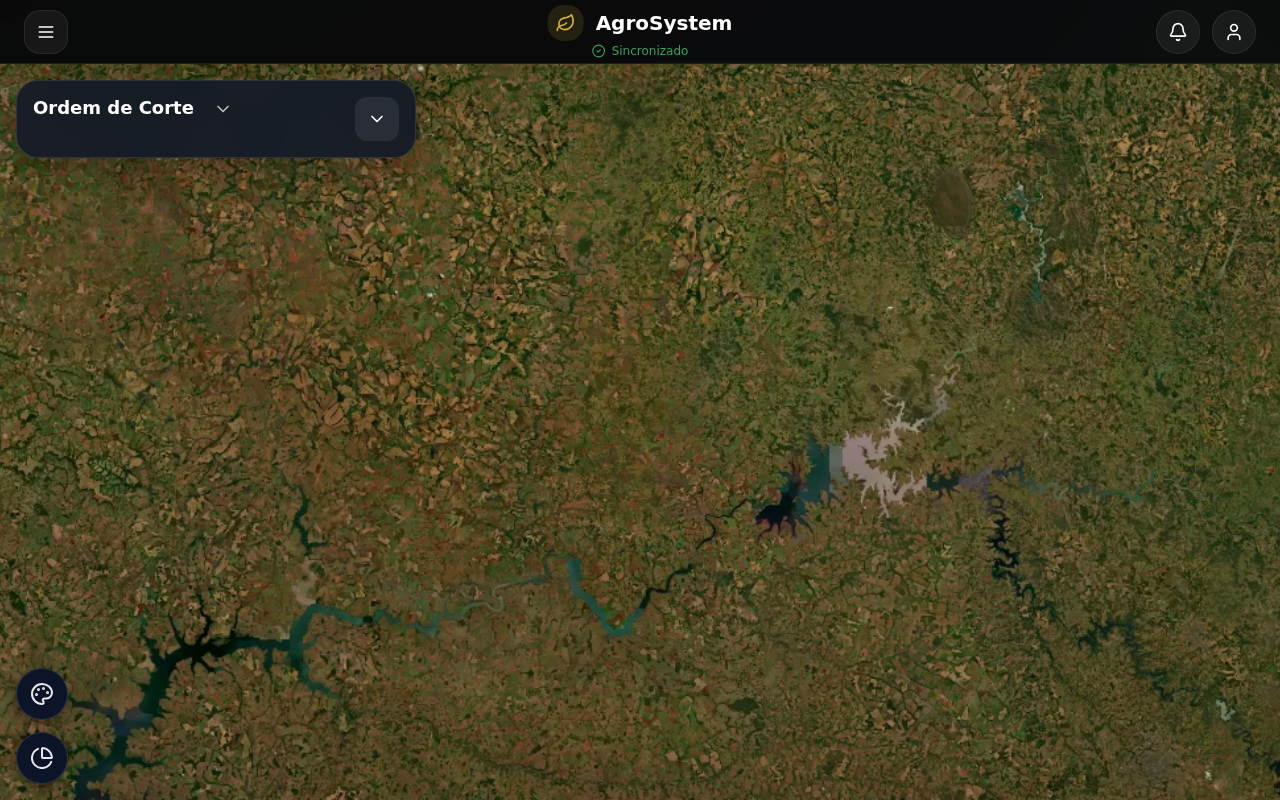
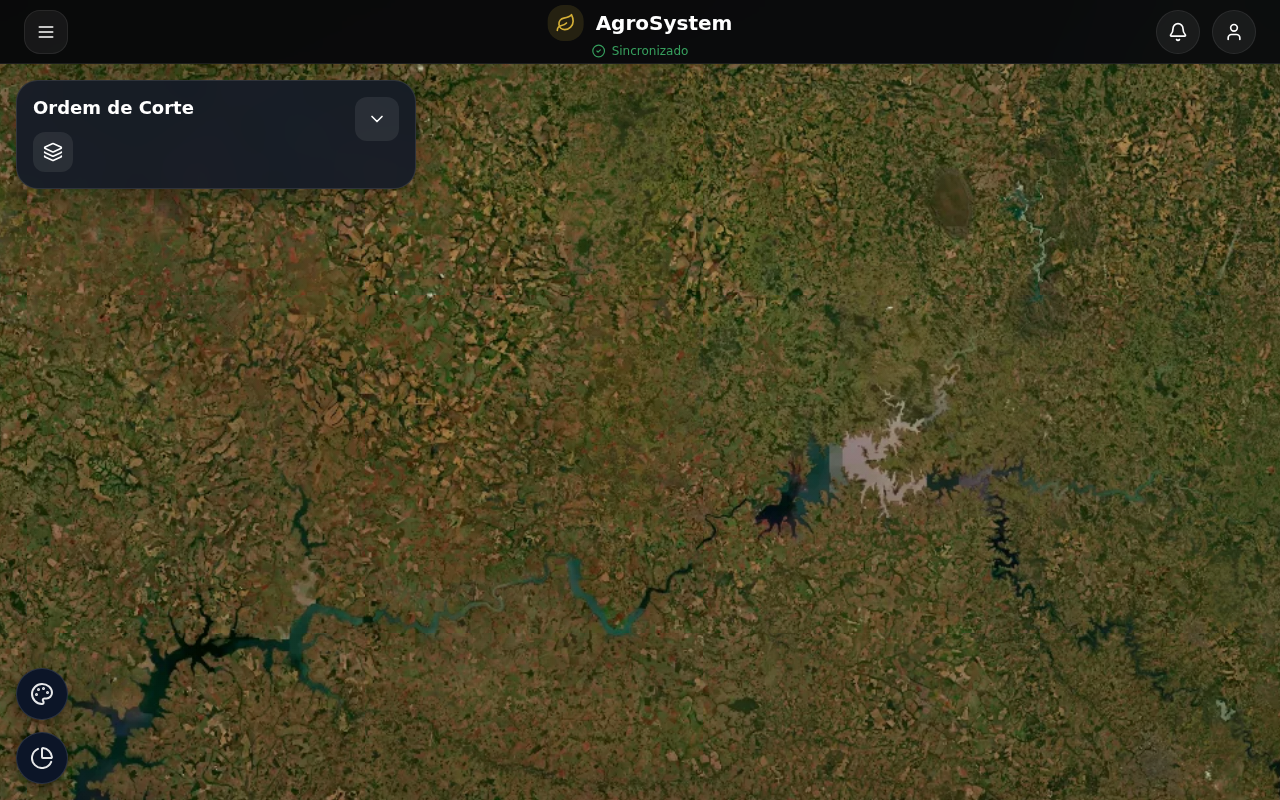
Add Tratos Culturais map module with layer switcher
This commit implements the "Tratos Culturais" module as part of a newly
introduced map layer switching mechanism.

- Adds a dropdown layer icon to switch between "Estimativa Safra", "Ordem de Corte" and "Tratos Culturais"
- Updates map visibility and paint properties to show correct colors based on active module
- Tratos Culturais shows exclusively closed orders in a neutral grey color
- Fixes issue where closed orders were erroneously visible/estimable in other modules
- Implements correct disabled-state for action buttons on closed orders
- Exposes `idsOcultosSet` to `EstimativaPanels` to enforce the blocking logic correctly

Changed region(s): [[0.0, 0.1875, 0.3438, 0.25]]

diff --git a/src/modules/estimativas/EstimativaPanels.jsx b/src/modules/estimativas/EstimativaPanels.jsx
@@ -24,6 +24,7 @@ import { OrdemCorteActions } from "./components/OrdemCorteActions";
  * @returns {JSX.Element} Conjunto de divs absolutas de UI.
  */
 export default function EstimativaPanels({
+  idsOcultosSet,
   activeMapModule,
   setActiveMapModule,
   currentRodada,
@@ -84,31 +85,25 @@ export default function EstimativaPanels({
       return feat && !feat.properties?._is_estimated;
   });
 
+  const [isModuleDropdownOpen, setIsModuleDropdownOpen] = useState(false);
+  const moduleLabels = {
+    estimativa: "Estimativa Safra",
+    ordemCorte: "Ordem de Corte",
+    tratosCulturais: "Tratos Culturais"
+  };
+
   return (
     <>
       {/* Título e Botão de Filtro - Top Left */}
-      <div className="absolute top-4 left-4 right-4 sm:right-auto w-auto sm:w-[400px] rounded-[22px] border overflow-hidden z-10 shadow-[0_10px_30px_rgba(0,0,0,0.24)]" style={{ background: "rgba(17,24,39,0.88)", borderColor: "rgba(255,255,255,0.10)", backdropFilter: "blur(16px)" }}>
-        <div className="p-4 flex items-start justify-between gap-3">
+      <div className="absolute top-4 left-4 right-4 sm:right-auto w-auto sm:w-[400px] rounded-[22px] border overflow-visible z-30 shadow-[0_10px_30px_rgba(0,0,0,0.24)]" style={{ background: "rgba(17,24,39,0.88)", borderColor: "rgba(255,255,255,0.10)", backdropFilter: "blur(16px)" }}>
+        <div className="p-4 flex items-start justify-between gap-3 relative">
           <div className="flex-1">
-            <div className="relative w-fit">
-              <select
-                  value={activeMapModule}
-                  onChange={(e) => {
-                     setActiveMapModule(e.target.value);
-                     setSelectedTalhoes([]);
-                     setSelectedTalhao(null);
-                  }}
-                  className="appearance-none outline-none cursor-pointer bg-transparent text-[18px] font-bold leading-tight pr-8 text-white w-full"
-              >
-                  <option value="estimativa" style={{ color: "black" }}>Estimativa Safra</option>
-                  <option value="ordemCorte" style={{ color: "black" }}>Ordem de Corte</option>
-                  <option value="tratosCulturais" style={{ color: "black" }}>Tratos Culturais</option>
-              </select>
-              <ChevronDown className="w-5 h-5 absolute right-0 top-1/2 -translate-y-1/2 pointer-events-none text-white/70" />
+            <div className="text-[18px] font-bold leading-tight text-white mb-1">
+               {moduleLabels[activeMapModule]}
             </div>
 
             {activeMapModule === "estimativa" && (
-              <div className="mt-3 inline-flex items-center gap-2">
+              <div className="mt-2 inline-flex items-center gap-2">
                 <div className="relative">
                   <select
                     value={currentRodada}
@@ -131,6 +126,39 @@ export default function EstimativaPanels({
                 </div>
               </div>
             )}
+
+            {/* Ícone de Camadas que abre o Dropdown */}
+            <div className="mt-3 relative">
+               <button
+                  onClick={() => setIsModuleDropdownOpen(!isModuleDropdownOpen)}
+                  className="w-10 h-10 rounded-xl flex items-center justify-center transition-colors hover:bg-white/10"
+                  style={{ background: "rgba(255,255,255,0.08)" }}
+                  title="Alternar Módulo"
+               >
+                  <Layers className="w-5 h-5 text-white" />
+               </button>
+
+               {/* Dropdown de Seleção de Módulos */}
+               {isModuleDropdownOpen && (
+                 <div className="absolute top-12 left-0 w-56 rounded-xl border overflow-hidden shadow-2xl z-50 flex flex-col" style={{ background: "rgba(23, 29, 43, 0.98)", borderColor: "rgba(255,255,255,0.15)", backdropFilter: "blur(20px)" }}>
+                   {Object.entries(moduleLabels).map(([key, label]) => (
+                     <button
+                       key={key}
+                       onClick={() => {
+                          setActiveMapModule(key);
+                          setSelectedTalhoes([]);
+                          setSelectedTalhao(null);
+                          setIsModuleDropdownOpen(false);
+                       }}
+                       className={`px-4 py-3 text-left text-sm font-semibold transition-colors hover:bg-white/10 ${activeMapModule === key ? 'text-blue-400 bg-white/5' : 'text-white'}`}
+                     >
+                       {label}
+                     </button>
+                   ))}
+                 </div>
+               )}
+            </div>
+
           </div>
           <div className="flex gap-2">
             <button className="w-11 h-11 rounded-xl flex items-center justify-center transition-colors hover:bg-white/10" style={{ background: "rgba(255,255,255,0.08)" }} onClick={() => setFiltersOpen(true)}>
@@ -229,8 +257,9 @@ export default function EstimativaPanels({
               {activeMapModule === "estimativa" && (
                 <div className="col-span-2 grid grid-cols-2 gap-3 mt-2">
                   <button
-                    className="rounded-2xl py-3 flex items-center justify-center gap-2 font-semibold text-[15px] transition-transform hover:scale-[1.02]"
+                    className={`rounded-2xl py-3 flex items-center justify-center gap-2 font-semibold text-[15px] transition-transform hover:scale-[1.02] disabled:opacity-50 disabled:cursor-not-allowed`}
                     style={{ background: "#22c55e", color: "#ffffff" }}
+                    disabled={selectedTalhoes.some(id => idsOcultosSet?.has(id))}
                     onClick={() => {
                       if (selectedTalhoes.length > 1) {
                         setScope("selecionados");
@@ -247,6 +276,11 @@ export default function EstimativaPanels({
                           const feat = enhancedGeoJson?.features?.find(f => f.id === id);
                           if (feat && feat.properties?._is_estimated) hasEstimated = true;
                        });
+
+                       // Se houver algum talhão fechado selecionado, mudamos o texto para alertar que está bloqueado
+                       const isClosed = selectedTalhoes.some(id => idsOcultosSet?.has(id));
+                       if (isClosed) return "Ordem Fechada";
+
                        return hasEstimated ? "Reestimar" : "Estimar";
                     })()}
                   </button>

diff --git a/src/modules/estimativas/EstimativaMap.jsx b/src/modules/estimativas/EstimativaMap.jsx
@@ -55,18 +55,31 @@ const EstimativaMap = React.memo(function EstimativaMap({
     if (!enhancedGeoJson) return null;
     return {
       ...enhancedGeoJson,
-      features: enhancedGeoJson.features.filter(f => {
+      features: enhancedGeoJson.features.map(f => {
+        // Clone features to avoid mutating the original data in useMemo
+        return {
+          ...f,
+          properties: {
+            ...f.properties,
+            _is_closed_ordem: idsOcultosSet.has(f.id)
+          }
+        };
+      }).filter(f => {
         const isEstimated = f.properties?._is_estimated;
 
         if (activeMapModule === "estimativa") {
-            // Estimativa de Safra: Mostra tudo, independente de ter estimativa ou ordem de corte fechada
+            // Estimativa de Safra: Mostra tudo
             return true;
         } else if (activeMapModule === "ordemCorte") {
-            // Ordem de Corte: Mostra APENAS os talhões que já foram estimados e que AINDA NÃO tiveram a ordem fechada
-            return isEstimated && !idsOcultosSet.has(f.id);
+            // Ordem de Corte: Mostra os estimados e OS FECHADOS, mas o que for fechado ficará vermelho (pintado via mapbox paint)
+            // Se eu não renderizar os fechados, não tem como eles ficarem vermelhos na view do 'Ordem de Corte'
+            // O usuário pediu: "deixar de vermelho quando fechar nao precisa sumir" no módulo ordem de corte
+            // Mas também disse: "se aparece fechado tem que ir no outro modulo"
+            // Entendemos que eles ficam visíveis mas coloridos diferentemente em ordemCorte
+            return isEstimated;
         } else if (activeMapModule === "tratosCulturais") {
             // Tratos Culturais: Mostra APENAS os talhões que já tiveram a ordem de corte fechada
-            return idsOcultosSet.has(f.id);
+            return f.properties._is_closed_ordem;
         }
         return true;
       })
@@ -156,8 +169,22 @@ const EstimativaMap = React.memo(function EstimativaMap({
                   ["boolean", ["feature-state", "hover"], false],
                   palette.goldLight,
                   // Injeção da Ordem de Corte (Se a chave _has_open_ordem for true -> Pinta de Azul)
+                  // Se for ordem fechada e estiver no módulo de Ordem de Corte, fica Vermelho
+                  // Se for ordem fechada e estiver em Tratos Culturais, fica Cinza Neutro (o usuário pediu "cor neutra")
+                  // Se for ordem fechada e estiver em Estimativa Safra, mantém a cor de estimativa normal
+                  ["all", ["==", activeMapModule, "ordemCorte"], ["boolean", ["get", "_is_closed_ordem"], false]],
+                  "#ff0000", // Vermelho para fechado no Ordem de Corte
+
+                  ["all", ["==", activeMapModule, "tratosCulturais"], ["boolean", ["get", "_is_closed_ordem"], false]],
+                  "#808080", // Cor neutra (cinza) para fechado em Tratos Culturais
+
                   ["boolean", ["get", "_has_open_ordem"], false],
                   ORDEM_CORTE_CORES.AZUL_ABERTA,
+
+                  // Se for ordem de corte, mas a ordem não está aberta nem fechada, fica cinza (sem cor de corte, como pedido)
+                  ["all", ["==", activeMapModule, "ordemCorte"], ["boolean", ["get", "_is_estimated"], false]],
+                  "#808080", // Cor neutra para talhões que podem abrir ordem mas não abriram
+
                   ["boolean", ["get", "_is_estimated"], false],
                   [
                     "match",

diff --git a/dist/index.html b/dist/index.html
@@ -16,8 +16,8 @@
     <meta name="mobile-web-app-capable" content="yes" />
 
     <title>AgroSystem</title>
-    <script type="module" crossorigin src="/Agro-System/assets/index-BxtisiL9.js"></script>
-    <link rel="stylesheet" crossorigin href="/Agro-System/assets/index-KarnwYuD.css">
+    <script type="module" crossorigin src="/Agro-System/assets/index-BeDA2UDW.js"></script>
+    <link rel="stylesheet" crossorigin href="/Agro-System/assets/index-CcOIHH60.css">
   <link rel="manifest" href="/Agro-System/manifest.webmanifest"></head>
   <body>
     <div id="root"></div>

diff --git a/src/components/layout/PostLoginScreen.jsx b/src/components/layout/PostLoginScreen.jsx
@@ -244,6 +244,7 @@ export default function PostLoginScreen({ onLogout }) {
 
               {/* Os painéis flutuantes em cima do mapa (Título, Legend, Talhões selecionados) */}
               <EstimativaPanels
+                idsOcultosSet={ordensMapState.idsOcultosSet}
                 activeMapModule={activeMapModule}
                 setActiveMapModule={setActiveMapModule}
                 currentRodada={estData.currentRodada}
